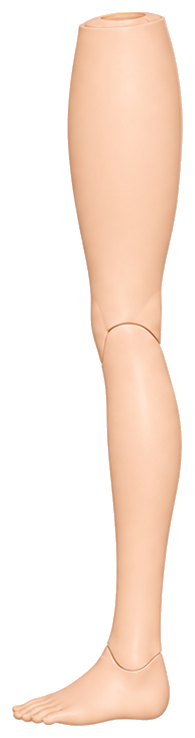
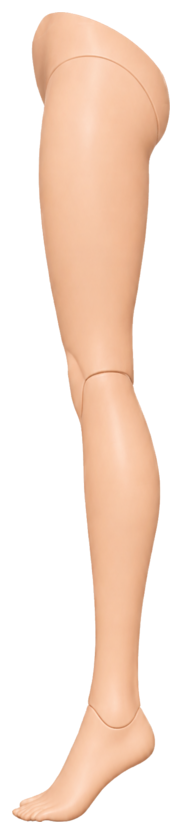
[rc3][m03] rebuild legs with diagonal hip caps

diff --git a/godot/assets/rc3/mannequin/parts/side/m03/README.md b/godot/assets/rc3/mannequin/parts/side/m03/README.md
@@ -20,6 +20,12 @@ The six parts are intended for a six-bone rigid cutout. Arms do not bend at
 the elbows or wrists, legs do not bend at the knees or ankles, and this model
 does not use `Polygon2D` deformation, vertex weights or IK.
 
+Each leg is one complete rigid hip-to-foot part. Its upper edge follows the
+visible diagonal hip seam and includes the corresponding hip/buttock cap.
+The torso alpha ends at that same seam, so a future leg bone rotates from a
+point inside the hip cap instead of behaving like a narrow thigh inserted
+vertically into the torso.
+
 `preview/neutral_assembly.png` is only a visual assembly check. It is not a
 runtime texture and its placement is not an approved rest pose.
 
@@ -31,7 +37,7 @@ Before any `Skeleton2D` or `Bone2D` node is created, the operator reviews:
 
 - head-to-body scale;
 - shoulder and neck joins;
-- hip overlap;
+- diagonal hip seam, hip-cap overlap and buttock silhouette;
 - both complete hands and feet;
 - consistent left-facing direction;
 - absence of background pixels or cropped silhouettes.

diff --git a/reference_projects/godot_skeleton2d_demo/player/kotone_bot_m03/README.md b/reference_projects/godot_skeleton2d_demo/player/kotone_bot_m03/README.md
@@ -7,6 +7,11 @@ The local `assets/` directory contains the six candidate textures required for
 Godot import and operator inspection. There is intentionally no scene, script,
 skeleton, rig or animation at this gate.
 
+Both rigid leg textures start at the diagonal hip seam and include the
+hip/buttock cap. The matching lower-pelvis alpha was removed from `torso.png`;
+this prevents a duplicated rear silhouette and gives each future leg a broad,
+readable rotation attachment instead of a thin vertical insertion.
+
 The next step begins only after the operator accepts the six assets. It will
 create one root `Torso` bone and five direct child bones: `Head`, `ArmFar`,
 `ArmNear`, `LegFar` and `LegNear`.
